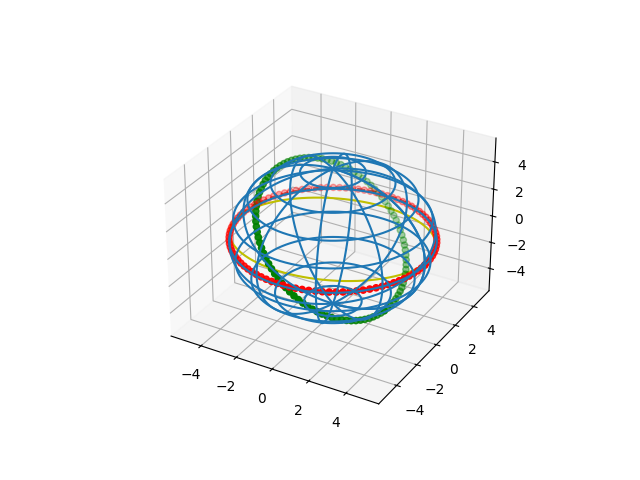
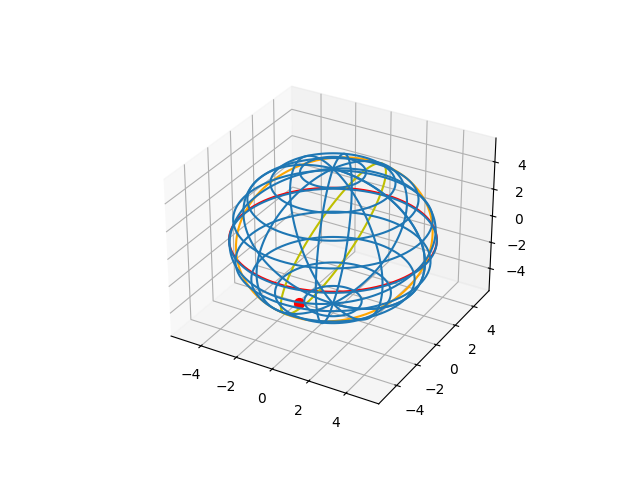
жшрнд

Changed region(s): [[0.3438, 0.3125, 0.6875, 0.6875], [0.4688, 0.4688, 0.5, 0.5312], [0.5312, 0.5, 0.5625, 0.5312]]

diff --git a/task4.py b/task4.py
@@ -1,11 +1,11 @@
 import numpy as np
 import matplotlib.pyplot as plt
+fix, ax = plt.subplots(subplot_kw={"projection": "3d"})
 
-fig, ax = plt.subplots(subplot_kw={"projection": "3d"})
-
-phi = np.linspace(0, 2*np.pi, 100) # Угол phi (азимут)
-theta = np.linspace(0, np.pi, 100)  # Угол theta (зенит)
 R = 5  
+
+phi = np.linspace(0, 2 * np.pi, 100)  
+theta = np.linspace(0, np.pi, 100)  
 
 x = R * np.outer(np.cos(phi), np.sin(theta))
 y = R * np.outer(np.sin(phi), np.sin(theta))
@@ -13,76 +13,68 @@ z = R * np.outer(np.ones(np.size(phi)), np.cos(theta))
 
 ax.plot_wireframe(x, y, z, rstride=10, cstride=10)
 
+x1 = R * np.cos(phi)
+y1 = R * np.sin(phi)
+z1 = np.zeros_like(phi)
+
 x_1 = R * np.cos(phi)
 y_1 = R * np.sin(phi)
 z_1 = np.zeros(100)
-ax.plot(x_1, y_1, z_1, color='g', linestyle='--')
 
-a = 40  
-A = 250 
-H = 50  
+a = np.radians(40)    
+A = np.radians(250) 
+H = np.radians(50) 
 
-x1 = R * np.cos(A/180*np.pi) * np.cos(a/180*np.pi)  # Перевод градусов в радианы
-y1 = R * np.cos(A/180*np.pi) * np.sin(a/180*np.pi)
-z1 = R * np.sin(A/180*np.pi)
+x_2 = x_1
+y_2 = y_1 * np.cos(a) - z_1 * np.sin(a)
+z_2 = y_1 * np.sin(a) + z_1 * np.cos(a)
 
-def Ox(x1, y1, z1, a): 
-    a_rad = np.radians(a)
-    x2 = x1
-    y2 = y1 * np.cos(a_rad) - z1 * np.sin(a_rad)
-    z2 = y1 * np.sin(a_rad) + z1 * np.cos(a_rad)
-    return x2, y2, z2
+x2 = x1
+y2 = y1 * np.cos(a) - z1 * np.sin(a)
+z2 = y1 * np.sin(a) + z1 * np.cos(a)
 
-def Oy(x1, y1, z1, A): 
-    b_rad = np.radians(A)
-    y2 = y1
-    x2 = x1 * np.cos(b_rad) + z1 * np.sin(b_rad)
-    z2 = -x1 * np.sin(b_rad) + z1 * np.cos(b_rad)
-    return x2, y2, x2
+x3 = x2 * np.cos(H) + z2 * np.sin(H)
+y3 = y2
+z3 = -x2 * np.sin(H) + z2 * np.cos(H)
 
-def Oz(x1, y1, z1, H): 
-    t_rad = np.radians(H)
-    z2 = z1
-    x2 = x1 * np.cos(t_rad) - y1 * np.sin(t_rad)
-    y2 = x1 * np.sin(t_rad) + y1 * np.cos(t_rad)
-    return x2, y2, z2
+x_3 = x3 * np.cos(A) - y3 * np.sin(A)
+y_3 = x3 * np.sin(A) + y3 * np.cos(A)
+z_3 = z3
+ax.plot(x_1, y_1, z_1, color='r' )
 
-x2, y2, z2 = Oz(x1, y1, z1, H)
-x3, y3, z3 = Oy(x2, y2, z2, A)
-x4, y4, z4 = Ox(x3, y3, z3, a)
+ax.plot(x_2, y_2, z_2, color='orange')
 
-ax.scatter(x4, y4, z4, c='r')
+ax.plot(x_3, y_3, z_3, color='y')
 
-x1 = R * np.cos(a/180*np.pi) * np.cos(a/180*np.pi) 
-y1 = R * np.cos(a/180*np.pi) * np.sin(a/180*np.pi)
-z1 = R * np.sin(a/180*np.pi)
 
-ygt = np.linspace(0, 2*np.pi, 100)
-x_2 = x1
-y_2 = y1 * np.cos(ygt) - z1 * np.sin(ygt)
-z_2 = y1 * np.sin(ygt) + z1 * np.cos(ygt)
-ax.plot(x_2, y_2, z_2, color='y', linestyle='--')
+a_tok = (40)  
+b_tok = 250  
+t_tok = (50)  
 
-x2 = R * np.cos(A/180*np.pi) * np.cos(a/180*np.pi)
-y2 = R * np.cos(A/180*np.pi) * np.sin(a/180*np.pi)
-z2 = R * np.sin(A/180*np.pi)
+a_rad = np.radians(a_tok)
+b_rad = np.radians(b_tok)
+t_rad = np.radians(t_tok)
 
-frt = np.linspace(0, 2*np.pi, 100)
-x_3 =  y2
-y_3 = x2 * np.cos(frt) + z2 * np.sin(frt)
-z_3 = -x2 * np.sin(frt) + z2 * np.cos(frt)
-ax.plot(x_3, y_3, z_3, color='b', linestyle='--')
+x0 = R * np.cos(b_rad) * np.cos(t_rad)  
+y0 = R * np.cos(b_rad) * np.sin(t_rad)
+z0 = R * np.sin(b_rad)
 
-x3 = R * np.cos(H/180*np.pi) * np.cos(a/180*np.pi)
-y3 = R * np.cos(H/180*np.pi) * np.sin(a/180*np.pi)
-z3 = R * np.sin(H/180*np.pi)
+x1_tok = x0
+y1_tok = y0 * np.cos(a_rad) - z0 * np.sin(a_rad)
+z1_tok = y0 * np.sin(a_rad) + z0 * np.cos(a_rad)
 
-qaz = np.linspace(0, 2*np.pi, 100)
-x_4 =  z3
-y_4 = x3 * np.cos(qaz) - y3 * np.sin(qaz)
-z_4 = x3 * np.sin(qaz) + y3 * np.cos(qaz)
-ax.plot(x_4, y_4, z_4, color='c', linestyle='--')
+x2_tok = x1_tok * np.cos(A) + z1_tok * np.sin(A) 
+y2_tok = y1_tok
+z2_tok = -x1_tok * np.sin(A) + z1_tok * np.cos(A)
 
+x_3_tok = x2_tok * np.cos(H) - y2_tok * np.sin(H)
+y_3_tok = x2_tok * np.sin(H) + y2_tok * np.cos(H)
+z_3_tok = z2_tok
+
+
+x0 = R * np.cos(np.radians(b_tok)) * np.cos(np.radians(a_tok))
+y0 = R * np.cos(np.radians(b_tok)) * np.sin(np.radians(a_tok))
+z0 = R * np.sin(np.radians(b_tok))
+
+ax.scatter(x0, y0, z0,s=50, color='red')
 plt.savefig("fig_7.png")
-
-

diff --git a/task3.py b/task3.py
@@ -1,11 +1,11 @@
 import numpy as np
 import matplotlib.pyplot as plt
+fix, ax = plt.subplots(subplot_kw={"projection": "3d"})
 
-fig, ax = plt.subplots(subplot_kw={"projection": "3d"})
-
-phi = np.linspace(0, 2*np.pi, 100)
-theta = np.linspace(0, np.pi, 100) 
 R = 5  
+
+phi = np.linspace(0, 2 * np.pi, 100)  
+theta = np.linspace(0, np.pi, 100)  
 
 x = R * np.outer(np.cos(phi), np.sin(theta))
 y = R * np.outer(np.sin(phi), np.sin(theta))
@@ -15,74 +15,67 @@ ax.plot_wireframe(x, y, z, rstride=10, cstride=10)
 
 x_1 = R * np.cos(phi)
 y_1 = R * np.sin(phi)
-z_1 = np.zeros(100)
-ax.plot(x_1, y_1, z_1, color='r', linestyle='--')
+z_1 = np.zeros(100)  
+
+a = (-10  )
+b = 50  
+t = (-10 ) 
+
+a1 = np.radians(a)
+b1 = np.radians(b)
+t1 = np.radians(t)
+
+x_2 = x_1  
+y_2 = y_1 * np.cos(a1) - z_1 * np.sin(a1)
+z_2 = y_1 * np.sin(a1) + z_1 * np.cos(a1)
+
+x1 = x_1
+y1 = y_1 * np.cos(a1) - z_1 * np.sin(a1)
+z1 = y_1 * np.sin(a1) + z_1 * np.cos(a1)
+
+x2 = x1 * np.cos(b1) + z1 * np.sin(b1)
+y2 = y1
+z2 = -x1 * np.sin(b1) + z1 * np.cos(b1)
+
+x_3 = x2 * np.cos(t1) - y2 * np.sin(t1)
+y_3 = x2 * np.sin(t1) + y2 * np.cos(t1)
+z_3 = z2
+
+ax.plot(x_1, y_1, z_1, 'r')
+
+ax.plot(x_2, y_2, z_2, 'orange')
+
+ax.plot(x_3, y_3, z_3, color='y')
+
+a_tok = (-10)  
+b_tok = 50  
+t_tok = (-10)  
+
+a_rad = np.radians(a_tok)
+b_rad = np.radians(b_tok)
+t_rad = np.radians(t_tok)
+
+x0 = R * np.cos(b_rad) * np.cos(t_rad)  
+y0 = R * np.cos(b_rad) * np.sin(t_rad)
+z0 = R * np.sin(b_rad)
+
+x1_tok = x0
+y1_tok = y0 * np.cos(a_rad) - z0 * np.sin(a_rad)
+z1_tok = y0 * np.sin(a_rad) + z0 * np.cos(a_rad)
+
+x2_tok = x1_tok * np.cos(b1) + z1_tok * np.sin(b1) 
+y2_tok = y1_tok
+z2_tok = -x1_tok * np.sin(b1) + z1_tok * np.cos(b1)
+
+x_3_tok = x2_tok * np.cos(t1) - y2_tok * np.sin(t1)
+y_3_tok = x2_tok * np.sin(t1) + y2_tok * np.cos(t1)
+z_3_tok = z2_tok
 
 
-a = -10  
-A = 50 
-H = -10  
+x0 = R * np.cos(np.radians(b_tok)) * np.cos(np.radians(a_tok))
+y0 = R * np.cos(np.radians(b_tok)) * np.sin(np.radians(a_tok))
+z0 = R * np.sin(np.radians(b_tok))
 
-x1 = R * np.cos(np.radians(A)) * np.cos(np.radians(a))
-y1 = R * np.cos(np.radians(A)) * np.sin(np.radians(a))
-z1 = R * np.sin(np.radians(A))
-
-
-def Ox(x1, y1, z1, a):
-    a_rad = np.radians(a)
-    x2 = x1
-    y2 = y1 * np.cos(a_rad) - z1 * np.sin(a_rad) 
-    z2 = y1 * np.sin(a_rad) + z1 * np.cos(a_rad) 
-    return x2, y2, z2
-
-def Oy(x1, y1, z1, A): 
-    b_rad = np.radians(A)
-    y2 = y1
-    x2 = x1 * np.cos(b_rad) + z1 * np.sin(b_rad)  
-    z2 = -x1 * np.sin(b_rad) + z1 * np.cos(b_rad) 
-    return x2, y2, z2
-
-def Oz(x1, y1, z1, H): 
-    t_rad = np.radians(H)
-    z2 = z1
-    x2 = x1 * np.cos(t_rad) - y1 * np.sin(t_rad)   
-    y2 = x1 * np.sin(t_rad) + y1 * np.cos(t_rad)   
-    return x2, y2, z2
-
-x2, y2, z2 = Oz(x1, y1, z1, H)
-x3, y3, z3 = Oy(x2, y2, z2, A)
-x4, y4, z4 = Ox(x3, y3, z3, a)
-
-ax.scatter(x4, y4, z4, c='r')
-
-x1 = R * np.cos(np.radians(a)) * np.cos(np.radians(a))
-y1 = R * np.cos(np.radians(a)) * np.sin(np.radians(a))
-z1 = R * np.sin(np.radians(a))
-
-ygt = np.linspace(0, 2*np.pi, 100)
-x_2 = x1
-y_2 = y1 * np.cos(ygt) - z1 * np.sin(ygt)
-z_2 = y1 * np.sin(ygt) + z1 * np.cos(ygt)
-ax.plot(x_2, y_2, z_2, color='y', linestyle='--')
-
-x2 = R * np.cos(np.radians(A)) * np.cos(np.radians(a))
-y2 = R * np.cos(np.radians(A)) * np.sin(np.radians(a))
-z2 = R * np.sin(np.radians(A))
-
-frt = np.linspace(0, 2*np.pi, 100)
-x_3 =  y2
-y_3 = x2 * np.cos(frt) + z2 * np.sin(frt)
-z_3 = -x2 * np.sin(frt) + z2 * np.cos(frt)
-ax.plot(x_3, y_3, z_3, color='b', linestyle='--')
-
-x3 = R * np.cos(np.radians(H)) * np.cos(np.radians(a))
-y3 = R * np.cos(np.radians(H)) * np.sin(np.radians(a))
-z3 = R * np.sin(np.radians(H))
-
-qaz = np.linspace(0, 2*np.pi, 100)
-x_4 =  z3
-y_4 = x3 * np.cos(qaz) - y3 * np.sin(qaz)
-z_4 = x3 * np.sin(qaz) + y3 * np.cos(qaz)
-ax.plot(x_4, y_4, z_4, color='c', linestyle='--')
-plt.axis('equal')
+ax.scatter(x0, y0, z0,s=100, color='red')
 plt.savefig("fig_6.png")
+
